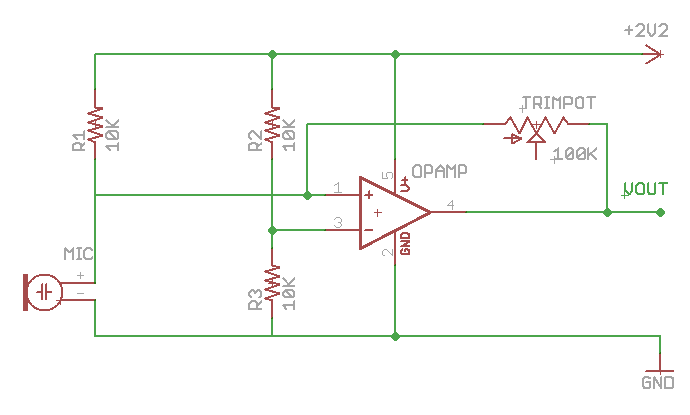
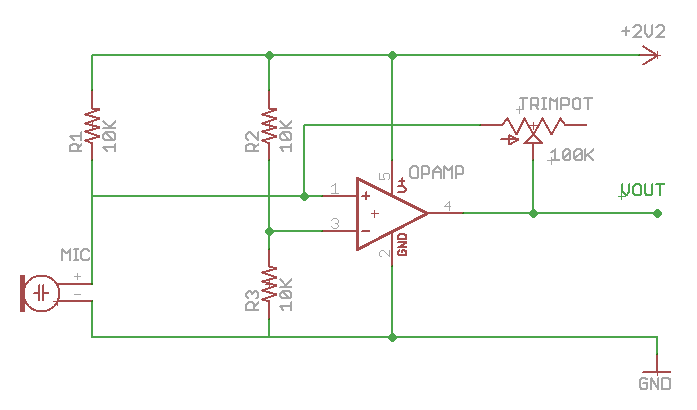
Fix amp schematic, add a code link

Changed region(s): [[0.0304, 0.0585, 1.0, 0.9659]]

diff --git a/mike/index.php b/mike/index.php
@@ -79,7 +79,7 @@ h3 {
       <li>Configure the appropriate opamp to output to the ADC and have a gain of 1</li>
       <li>Enable the opamp</li>
     </ul>
-    <p>I then created a simple test program that used the processor to query the ADC directly, convert values and output them over serial. Voltages could then be applied to the input pin and seen on the serial output.</p>
+    <p>I then created a <a href="https://github.com/SLIP-Group-C-2012/SLIP-Group-C-2012/commit/78354a374cd692a27b45ff614871ab70d66e73d9">simple test program</a> that used the processor to query the ADC directly, convert values and output them over serial. Voltages could then be applied to the input pin and seen on the serial output.</p>
 
     <p>I then designed a circuit around a standard differential amplifier example, with variable gain so we could tune it later.</p>
     <img src="images/amp-circuit-v1.png" />
